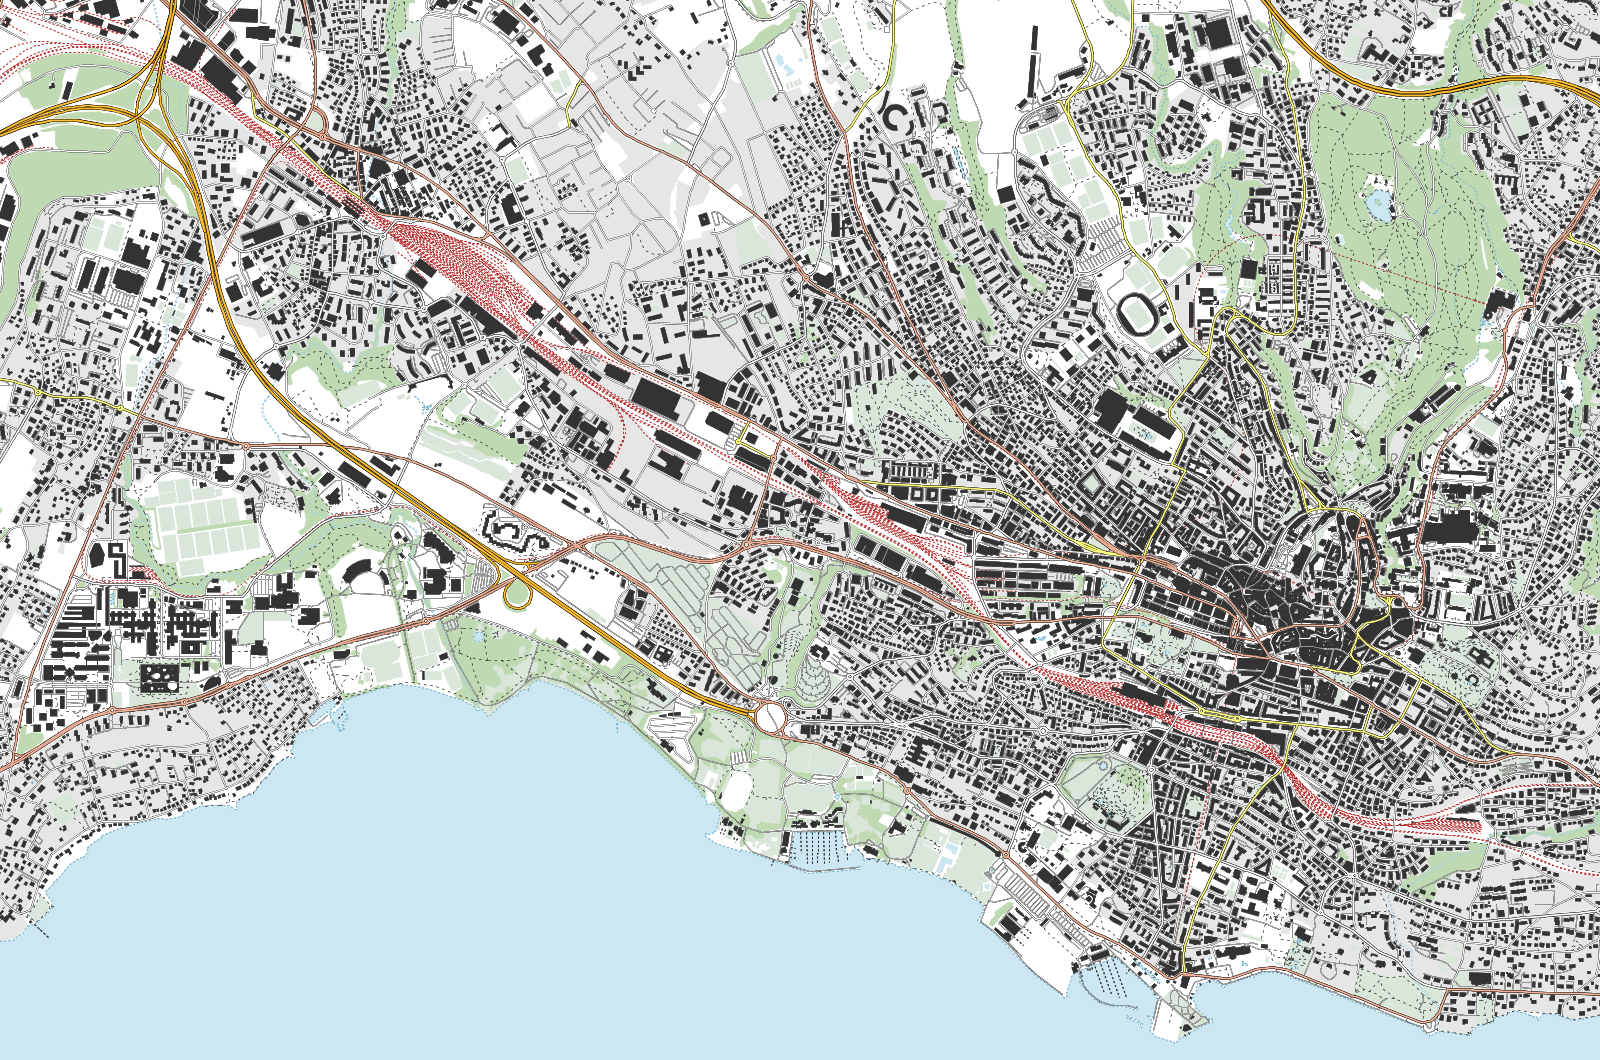
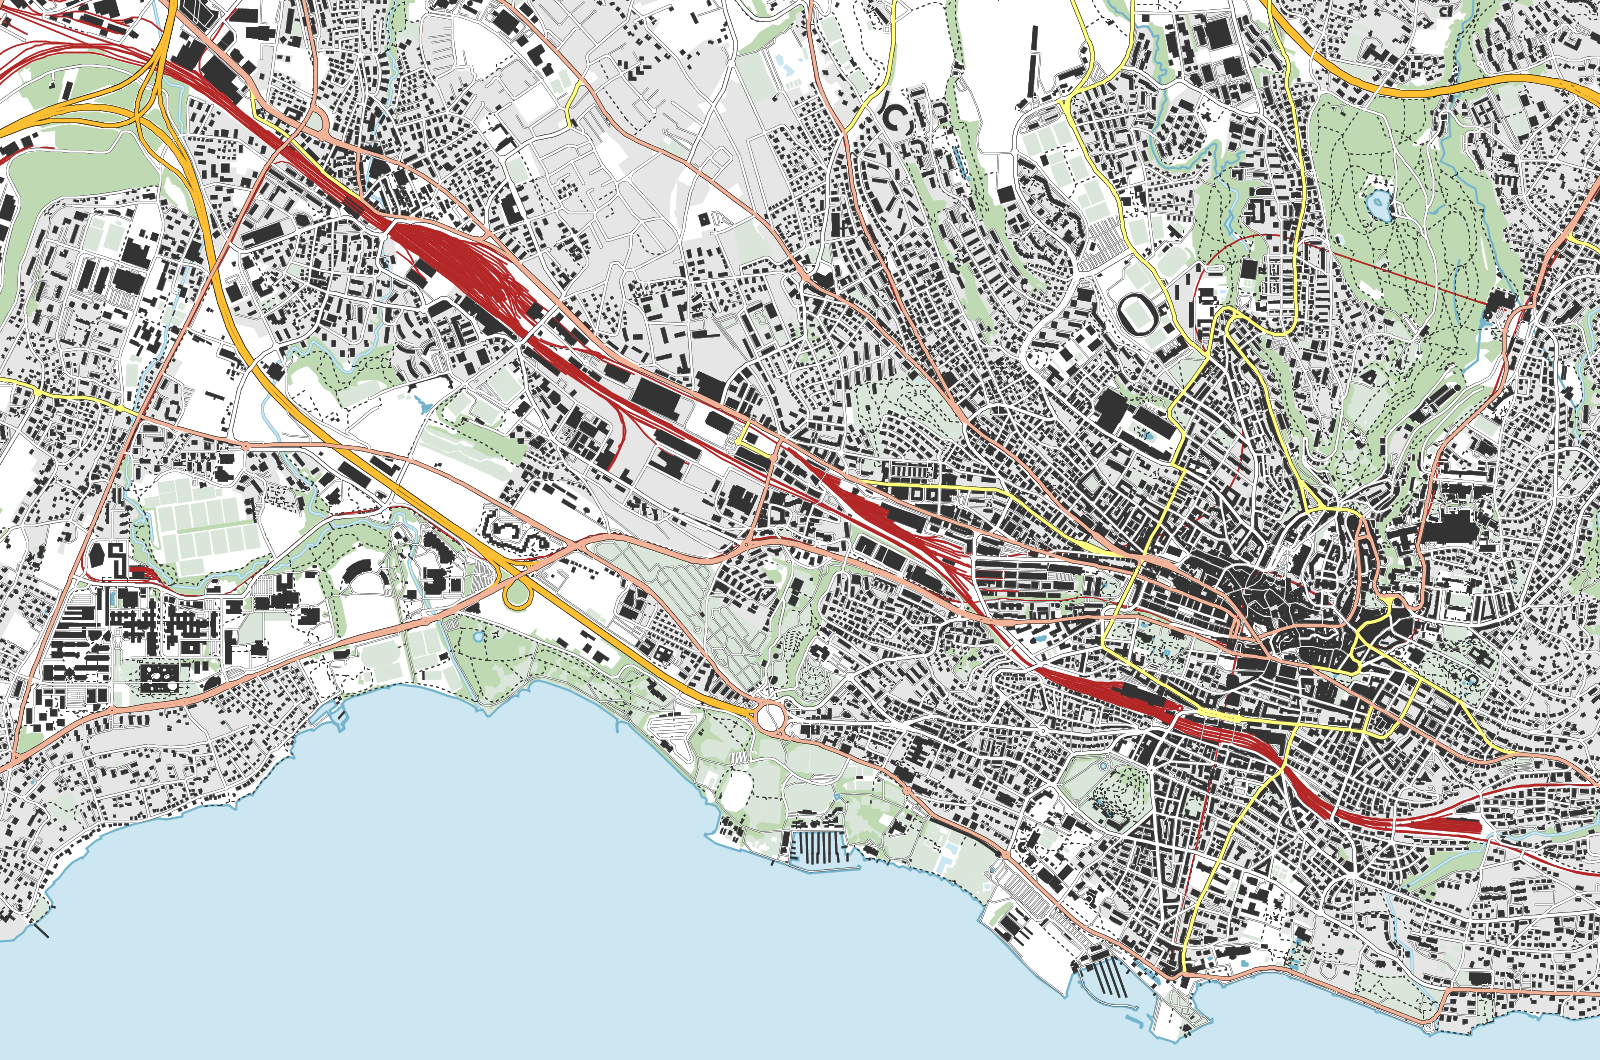
ok

Changed region(s): [[0.0, 0.0, 1.0, 0.9962], [0.5938, 0.0623, 0.625, 0.0934]]

diff --git a/src/ch/epfl/imhof/painting/RoadPainterGenerator.java b/src/ch/epfl/imhof/painting/RoadPainterGenerator.java
@@ -9,32 +9,34 @@ public abstract class RoadPainterGenerator {
     private static Predicate<Attributed<?>> IS_ROAD = Filters.tagged("highway");
     private static Predicate<Attributed<?>> IS_BRIDGE = IS_ROAD.and(Filters.tagged("bridge"));
     private static Predicate<Attributed<?>> IS_TUNNEL = IS_ROAD.and(Filters.tagged("tunnel")); 
-    private static float[] defaultLineSequence = {100000000000000f};
+    private static float[] def = {};
+   
             
     private RoadPainterGenerator() {
     }
     
     public static Painter painterForRoads(RoadSpec ... args){
-        return recursivePainterForRoads(args); 
+        LineStyle templateA = new LineStyle(null, 0f, LineStyle.LINE_END.ROUND,LineStyle.JOINT.ROUND,def);
+        LineStyle templateB = templateA.withLineEnd(LineStyle.LINE_END.BUTT);
+        return recursivePainterForRoads(args,false,true, templateA).when(IS_BRIDGE)
+                .above(recursivePainterForRoads(args,false, false, templateB).when(IS_BRIDGE))
+                .above(recursivePainterForRoads(args,false,true, templateA).when(IS_ROAD))
+                .above(recursivePainterForRoads(args,false,false, templateA).when(IS_ROAD))
+                .above(recursivePainterForRoads(args,true, false, templateB).when(IS_TUNNEL));
     }
     
-    private static Painter recursivePainterForRoads(RoadSpec[] a){
-        Painter curr = specificPainter(a[0].getWi(),a[0].getCi(),a[0].getWc(),a[0].getCc()).when(a[0].getPredicate());
-        return (a.length==1) ? curr : curr.above(recursivePainterForRoads(Arrays.copyOfRange(a, 1, a.length)));
+    private static Painter recursivePainterForRoads(RoadSpec[] a, boolean tunnel, boolean interior, LineStyle l){
+        float wi = a[0].getWi();
+        float[] seq = {2*wi,2*wi};
+        l = l.withColor(interior? a[0].getCi() : a[0].getCc())
+                .withWidth(tunnel? wi/2 : interior? wi : wi+a[0].getWc())
+                .withLineSequence(tunnel? seq: def);
+         
+        Painter curr = Painter.line(l).when(a[0].getPredicate());
+        return (a.length==1) ? curr : curr.above(recursivePainterForRoads(Arrays.copyOfRange(a, 1, a.length), tunnel, interior, l));
     }
-    
-    private static Painter specificPainter(float wi, Color ci, float wc, Color cc){
-        LineStyle IntStyle = new LineStyle(ci,wi,LineStyle.LINE_END.ROUND,LineStyle.JOINT.ROUND,defaultLineSequence);
-        LineStyle BorderStyle = IntStyle.withWidth(wi+2*wc).withColor(cc).withLineEnd(LineStyle.LINE_END.BUTT);
-        float[] array = {2*wi, 2*wi};
-        
-        return (Painter.line(IntStyle).when(IS_BRIDGE))
-                .above(Painter.line(BorderStyle).when(IS_BRIDGE))
-                .above(Painter.line(IntStyle).when(IS_ROAD))
-                .above(Painter.line(BorderStyle.withLineEnd(LineStyle.LINE_END.ROUND)).when(IS_ROAD))
-                .above(Painter.line(BorderStyle.withWidth(wi/2).withLineSequence(array)).when(IS_TUNNEL));       
-    }
-    
+
+
     public static class RoadSpec{
         
         private final Predicate<Attributed<?>> predicate;

diff --git a/src/ch/epfl/imhof/dem/HGTDigitalElevationModel.java b/src/ch/epfl/imhof/dem/HGTDigitalElevationModel.java
@@ -1,0 +1,65 @@
+package ch.epfl.imhof.dem;
+
+import java.io.File;
+import java.io.FileInputStream;
+import java.io.IOException;
+import java.nio.ShortBuffer;
+import java.nio.channels.FileChannel.MapMode;
+
+import ch.epfl.imhof.PointGeo;
+import ch.epfl.imhof.Vector3;
+
+public class HGTDigitalElevationModel implements DigitalElevationModel {
+    
+    // seperation = resolution angulaire du fichier 
+    
+    private final  ShortBuffer buffer; 
+    private final double pointsPerSide;
+    private final double seperation;
+    private final double lowerLeftLongitude;
+    private final double  lowerLeftLatitude; 
+
+    
+    public HGTDigitalElevationModel(File f) throws IllegalArgumentException, IOException {
+        String name = f.getName();
+        pointsPerSide = Math.sqrt(f.length()/2.0);
+        seperation = (1/(pointsPerSide-1.0))*Math.PI/180.0;
+        try{
+            lowerLeftLatitude = (Integer.parseInt(name.substring(1,3)) * ((name.startsWith("N"))? 1: -1))*Math.PI/180.0;
+            lowerLeftLongitude = (Integer.parseInt(name.substring(4,7)) * ((name.startsWith("W", 3))? 1: -1))*Math.PI/180.0; 
+        }
+        catch (NumberFormatException e){
+            throw new IllegalArgumentException("Invalid file");
+        }
+        if (!name.endsWith(".hgt") || !(name.startsWith("N")||name.startsWith("S")) || !(name.startsWith("W", 3)|| name.startsWith("E", 3)) || name.length()!=11
+               || !(lowerLeftLongitude>= -180 && lowerLeftLongitude<=179) || !(lowerLeftLatitude>=-90 && lowerLeftLatitude<=89) || pointsPerSide%1 !=0 ) throw new IllegalArgumentException("Invalid file");
+    
+        try (FileInputStream stream =new FileInputStream(f)) {
+           buffer = stream.getChannel().map(MapMode.READ_ONLY, 0, f.length()).asShortBuffer();
+        }       
+    }
+    
+    public void close(){
+    }
+    
+    private double get(int latIndex, int lonIndex){
+        return buffer.get(latIndex*(int)pointsPerSide+lonIndex);
+    }
+    
+    public Vector3 normalAt(PointGeo point){
+        double lat = point.latitude();
+        double lon = point.longitude();
+        if (lat<lowerLeftLatitude || lat>lowerLeftLatitude + Math.PI/180.0 || lon < lowerLeftLongitude || lon > lowerLeftLongitude+Math.PI/180.0) throw new IllegalArgumentException();
+        int latIndex = (lat==lowerLeftLatitude)? (int)pointsPerSide-1 :  (int)Math.floor((Math.PI/180.0-(lat-lowerLeftLatitude))/seperation);
+        int lonIndex = (lon==(lowerLeftLongitude+Math.PI/180.0))? (int)pointsPerSide-1 : (int)Math.floor((lon-lowerLeftLongitude)/seperation);
+        double a = get (latIndex,lonIndex); 
+        double b = get (latIndex,lonIndex+1);
+        double c = get (latIndex+1, lonIndex); 
+        double d = get (latIndex+1, lonIndex+1);
+        double s = seperation*Earth.RADIUS;
+        return new Vector3(0.5*s*(a-b+c-d),0.5*s*(a+b-c-d),s*s);
+    }
+    
+    
+
+}

diff --git a/src/ch/epfl/imhof/painting/Java2DCanvas.java b/src/ch/epfl/imhof/painting/Java2DCanvas.java
@@ -55,13 +55,12 @@ public class Java2DCanvas implements Canvas {
         return image;
     }
     
-    
-    // add to linestyle class
-    
+   
     
     @Override
     public void drawPolyline(PolyLine polyline, LineStyle lineStyle) {
-        Stroke s = new BasicStroke(lineStyle.getThickness()*72/resolution,lineStyle.getLineEnd().ordinal(),lineStyle.getJoint().ordinal(),(float)10.0,lineStyle.lineSequence(),0);
+        
+        Stroke s = new BasicStroke(lineStyle.getThickness()*72/resolution,lineStyle.getLineEnd().ordinal(),lineStyle.getJoint().ordinal(),(float)10.0,(lineStyle.lineSequence().length==0)? null: lineStyle.lineSequence(),0);
         Path2D path = makePath(polyline);
         if (polyline.isClosed()) path.closePath();
         ctx.setStroke(s);
@@ -101,17 +100,7 @@ public class Java2DCanvas implements Canvas {
     
     
     public static void main(String[] args) throws IOException, SAXException {
-        Predicate<Attributed<?>> isLake =
-                Filters.tagged("natural", "water", "road", "highway");
-            Painter lakesPainter =
-                Painter.polygon(Color.BLUE).when(isLake);
 
-            Predicate<Attributed<?>> isBuilding =
-                Filters.tagged("building");
-            Painter buildingsPainter =
-                Painter.polygon(Color.BLACK).when(isBuilding);
-
-            Painter painter = buildingsPainter.above(lakesPainter);
 
             OSMToGeoTransformer transformer = new OSMToGeoTransformer(new CH1903Projection());
             Map map = transformer.transform(OSMMapReader.readOSMFile("/Users/raphael/Sites/ProjectSemester2/src/ch/epfl/imhof/osm/lausanne.osm.gz", true));

diff --git a/src/ch/epfl/imhof/Vector3.java b/src/ch/epfl/imhof/Vector3.java
@@ -1,0 +1,29 @@
+package ch.epfl.imhof;
+
+public class Vector3 {
+    
+    private final double x; 
+    private final double y; 
+    private final double z;
+
+    public Vector3(double x,double y,double z) {
+        this.x = x;
+        this.y = y;
+        this.z = z;
+        // TODO Auto-generated constructor stub
+    }
+    
+    public double norm(){
+        return Math.sqrt(x*x+y*y+z*z);
+    }
+    
+    public Vector3 normalized(){
+        double n = norm();
+        return  new Vector3(x/n,y/n,z/n);
+    }
+    
+    public double scalarProduct(Vector3 that){
+        return this.x*that.x + this.y*that.y +this.z*that.z;
+    }
+
+}

diff --git a/src/ch/epfl/imhof/painting/LineStyle.java b/src/ch/epfl/imhof/painting/LineStyle.java
@@ -12,7 +12,7 @@ public class LineStyle {
     private final float thickness; 
     private final float[] lineSequence;
     private final Color color;
-    private final static float[] defaultLineSequence = {1f};
+    private final static float[] defaultLineSequence = {};
 
     /**
      * Enumération des terminaisons des lignes

diff --git a/src/ch/epfl/imhof/dem/DigitalElevationModel.java b/src/ch/epfl/imhof/dem/DigitalElevationModel.java
@@ -1,0 +1,10 @@
+package ch.epfl.imhof.dem;
+
+import ch.epfl.imhof.PointGeo;
+import ch.epfl.imhof.Vector3;
+
+public interface DigitalElevationModel extends AutoCloseable {
+
+    public Vector3 normalAt(PointGeo point) throws Exception;
+    public void close() throws Exception;
+}

diff --git a/src/ch/epfl/imhof/dem/Earth.java b/src/ch/epfl/imhof/dem/Earth.java
@@ -1,0 +1,5 @@
+package ch.epfl.imhof.dem;
+
+public interface Earth {
+    public final int RADIUS = 6378137;
+}
